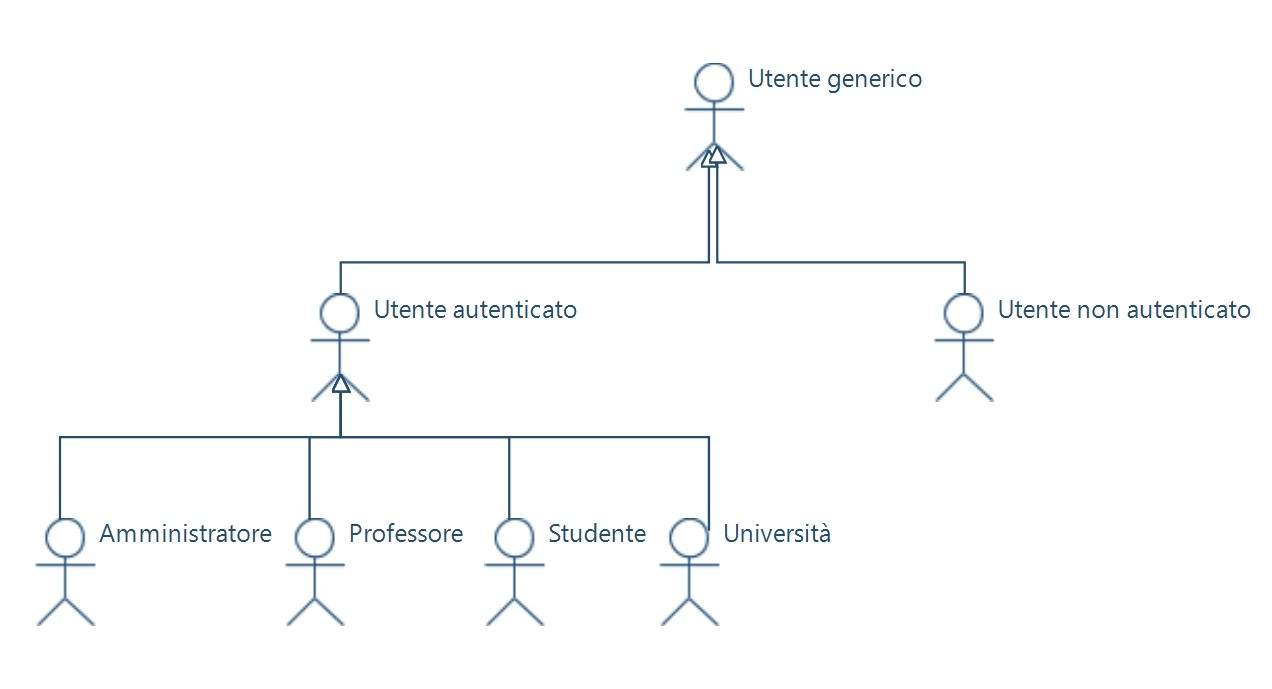
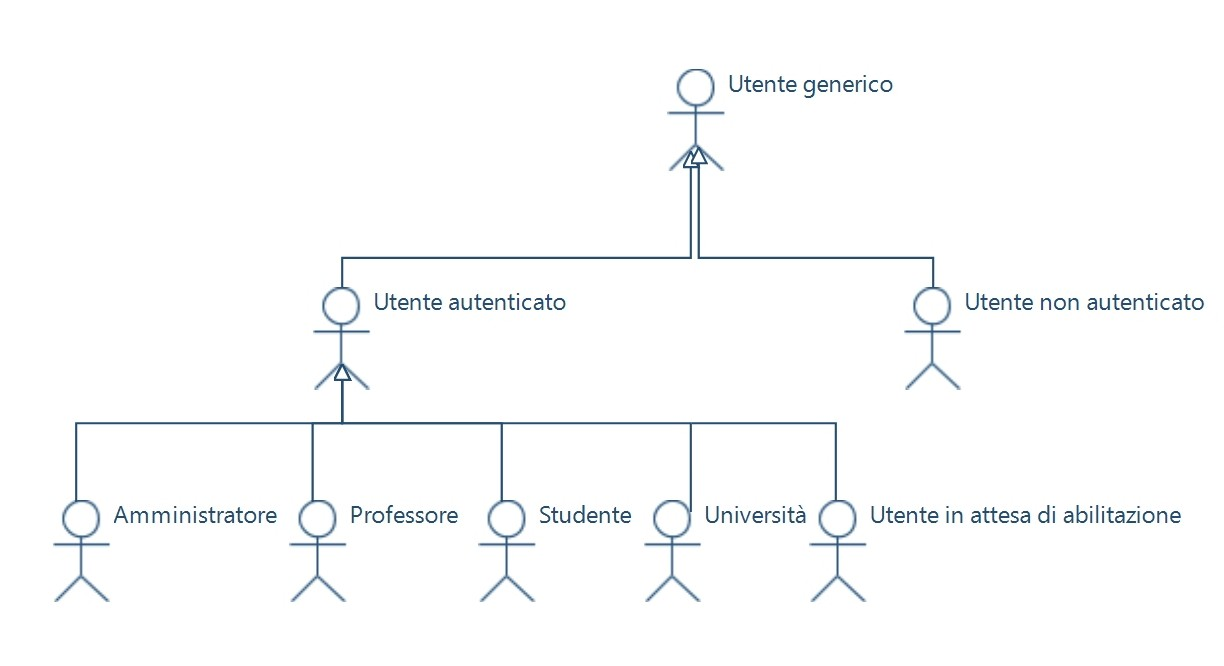
Aggiunti UML della mia parte mancanti e fixati gli altri come accordato

Changed region(s): [[0.031, 0.0901, 0.9935, 0.9009], [0.7141, 0.5706, 0.7451, 0.6006]]

diff --git a/Esterni - ENG/AnalisiDeiRequisiti/CasiDUso.tex b/Esterni - ENG/AnalisiDeiRequisiti/CasiDUso.tex
@@ -91,6 +91,7 @@
 \subsection{UC2 - Login}
 \begin{itemize}
 	\item \textbf{Attori primari} Utente non autenticato;\\
+	\item \textbf{Attori secondari:} Metamask;
 	\item \textbf{Scopo e descrizione:} L'utente richiede il login al sistema attraverso il plugin MetaMask;\\
 	\item \textbf{Scenario principale:} L'utente non ancora riconosciuto dal sistema effettua il login;\\
 	\item \textbf{Precondizione:} L'utente non è stato riconosciuto dal sistema;\\
@@ -147,7 +148,8 @@
 \subsection{UC3 - Registrazione}
 \begin{itemize}
 	\item \textbf{Attori primari:} Utente non autenticato;\\
-	\item \textbf{Scopo e descrizione:} L'utente compila i campi richiesti per registrarsi nel sistema;\\
+	\item \textbf{Attori secondari:} Metamask, Ufficio Universitario;
+	\item \textbf{Scopo e descrizione:} L'utente non autenticato compila i campi richiesti per registrarsi nel sistema, successivamente si dovrà presentare all'ufficio universitario con i documenti per l'identificazione;\\
 	\item \textbf{Scenario principale:}
 	\begin{enumerate}
 		\item L'utente inserisce il suo nome[UC3.1];
@@ -214,7 +216,6 @@
 \subsection{UC4 - Logout}
 \begin{itemize}
 	\item \textbf{Attori primari:} Utente Autenticato;
-	\item \textbf{Attori secondari:} Metamask;
 	\item \textbf{Scopo e descrizione:} L'utente effettua il logout dal sistema tramite il plugin Metamask;
 	\item \textbf{Scenario principale:} L'utente autenticato richiede il logout dal sistema;
 	\item \textbf{Precondizione:} L'utente è autenticato e vuole effettuare il logout;
@@ -223,6 +224,7 @@
 \subsection{UC5 - Amministrazione}
 \begin{itemize}
 	\item \textbf{Attori primari:} Amministratore;
+	\item \textbf{Attori secondari:} Metamask;
 	\item \textbf{Scopo e descrizione:} L'amministratore è nella sua area personale e ottiene una lista di azioni da compiere;
 	\item \textbf{Scenario principale:} L'utente visualizza le azioni che può compiere e ne sceglie una; 
 	\item \textbf{Precondizione:} L'utente è riconosciuto dal sistema come amministratore e vuole eseguire delle operazioni; 
@@ -477,6 +479,7 @@
 \subsection{UC7 - Gestione aspetti relativi allo studente}
 \begin{itemize}
 	\item \textbf{Attori primari:} Studente;\\
+	\item \textbf{Attori secondari:} Metamask;
 	\item \textbf{Scopo e descrizione:} L'utente è già riconosciuto dal sistema come studente e sceglie di utilizzare una funzionalità messa a sua disposizione da parte del sistema;\\
 	\item \textbf{Precondizione:} Lo studente già riconosciuto dal sistema desidera effettuare delle operazioni relative alla scelta di esami opzionali o alla visione delle valutazioni;\\
 	\item \textbf{Postcondizione:} Lo studente ha visualizzato le operazioni messe a disposizione dal sistema e sceglie quale effettuare.\\
@@ -567,10 +570,19 @@
 \subsection{UC8 - Gestione degli amministratori}
 \begin{itemize}
 	\item \textbf{Attori primari:} Università;\\
+	\item \textbf{Attori secondari:} Metamask;
 	\item \textbf{Scopo e descrizione:} L'utente è già riconosciuto dal sistema come rappresentante dell'università e sceglie di utilizzare una funzionalità messa a sua disposizione da parte del sistema;\\
 	\item \textbf{Precondizione:} L'utente che rappresenta l'università già riconosciuto dal sistema desidera effettuare delle operazioni relative alla aggiunta o alla rimozione di amministratori;\\
 	\item \textbf{Postcondizione:} L'utente che rappresenta l'università ha visualizzato le operazioni messe a disposizione dal sistema e sceglie quale effettuare.\\
 \end{itemize}
+
+\begin{figure}[H]
+	\centering
+	\includegraphics[width=1.0\linewidth]{UC8.jpg}
+	\caption{UC8 - Gestione degli amministratori}
+	\label{fig:UC8 - Gestione degli amministratori}
+\end{figure}
+
 \subsection{UC8.1 - Aggiunta di un amministratore}
 \begin{itemize}
 	\item \textbf{Attori primari:} Università;\\
@@ -578,6 +590,14 @@
 	\item \textbf{Precondizione:} L'utente che rappresenta l'università ha scelto di aggiungere un nuovo amministratore; 
 	\item \textbf{Postcondizione:} Il nuovo amministratore è stato inserito nel sistema.
 \end{itemize}
+
+\begin{figure}[H]
+	\centering
+	\includegraphics[width=1.0\linewidth]{UC8_1.jpg}
+	\caption{UC8.1 - Aggiunta di un amministratore}
+	\label{fig:UC8.1 - Aggiunta di un amministratore}
+\end{figure}
+
 \subsection{UC8.1.1 - Inserimento chiave pubblica}
 \begin{itemize}
 	\item \textbf{Attori primari:} Università;\\
@@ -631,8 +651,11 @@
 
 \subsection{UC9 - Visualizzazione quantità di Gas, Ether e costo delle operazioni}
 \begin{itemize}
-	%TODO
-	\item TODO
+	\item \textbf{Attori primari:} Utente generico;\\
+	\item \textbf{Attori secondari:} MetaMask;\\
+	\item \textbf{Scopo e descrizione:} L'utente generico può vedere quanto Gas, Ether ed euro andrà ad utilizzare per svolgere determinate azioni;\\
+	\item \textbf{Precondizione:} L'utente generico desidera e richiede al sistema i costi delle operazioni;\\
+	\item \textbf{Postcondizione:} Il sistema fornisce all'utente generico le informazioni da lui richieste e l'utente generico acquisisce l'informazione.\\
 \end{itemize}
 
 \end{document}
